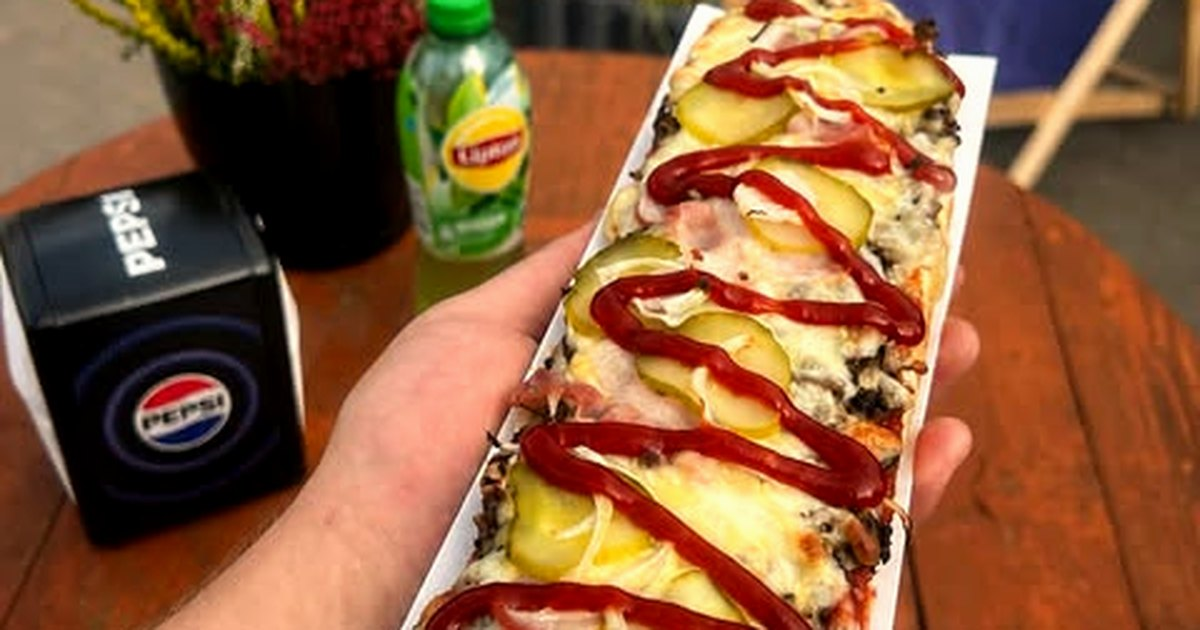
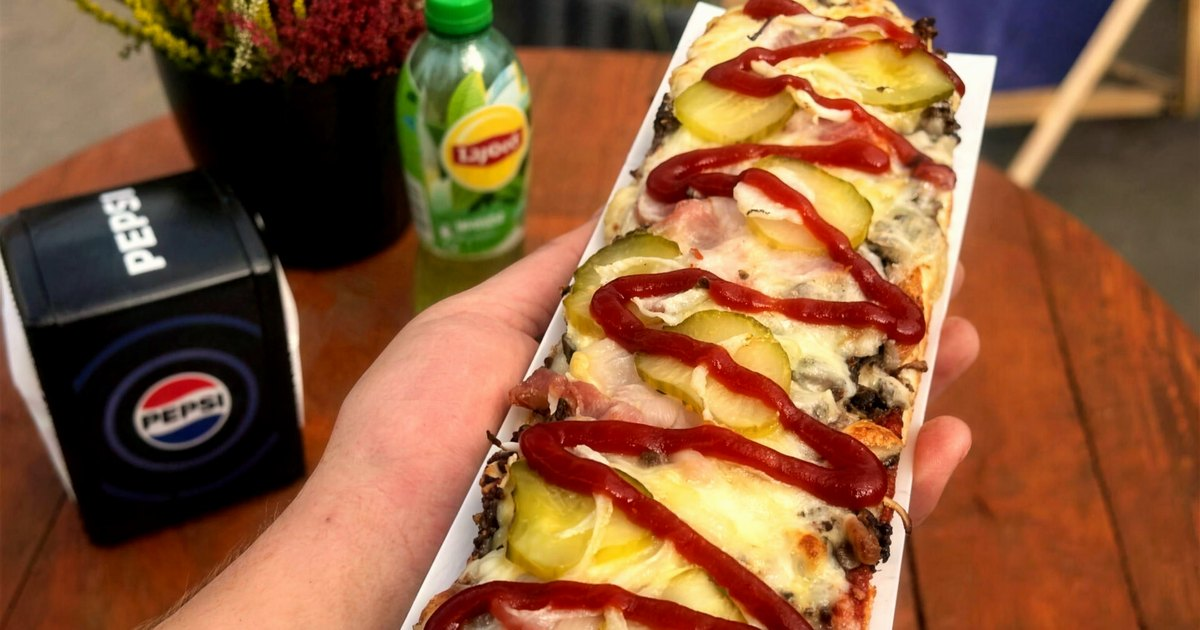
fix: rebuild footer, embed a real google map, upscale the two lead photos
Kontakt: mapa z h-full rozpychała wiersz, przez co lewa kolumna miała 325 px
treści w 789 px wysokości. Zdjęcie i mapa siedzą teraz we własnym wierszu o
stałej wysokości, pustka zniknęła. Zamiast klikalnej zaślepki jest normalny
embed Google Maps.

Stopka: wordmark, adres, telefon, linki do sekcji, social i pasek dolny z
'projekt i realizacja: Kontaktio'. Na mobile dolny odstęp na przyklejony pasek
z telefonem.

Zdjęcia hero i lokalu podbite do 4K (Higgsfield, upscale bez promptu), bo 640 px
z Instagrama było widocznie miękkie na dużym ekranie. Kadr i kompozycja bez
zmian, to te same zdjęcia lokalu.

diff --git a/src/components/sections/Contact.tsx b/src/components/sections/Contact.tsx
@@ -1,7 +1,7 @@
 import Image from 'next/image';
 import { BUSINESS, AMENITIES } from '@/lib/business';
 import { OpeningHours } from '@/components/OpeningHours';
-import { MapPanel } from '@/components/MapPanel';
+import { GoogleMap } from '@/components/GoogleMap';
 import { pl, phoneDisplay } from '@/lib/typo';
 
 function Facebook() {
@@ -31,82 +31,82 @@ function Instagram() {
 
 export function Contact() {
   return (
-    <section id="kontakt" className="border-t border-char bg-ink-2">
-      <div className="grid md:grid-cols-12">
-        <div className="px-5 py-16 sm:px-8 md:col-span-7 md:py-20 md:pl-[max(2rem,calc((100vw-86rem)/2+2rem))]">
-          <div className="grid gap-10 sm:grid-cols-2">
-            <div>
-              <p className="mb-3 text-[0.7rem] caps text-ember">Adres</p>
-              <p className="font-display text-[1.35rem] leading-snug text-cream">
-                {BUSINESS.street}
-              </p>
-              <p className="nums text-[0.95rem] text-cream-dim">
-                {pl(`${BUSINESS.postalCode} ${BUSINESS.city}`)}
-              </p>
+    <section id="kontakt" className="scroll-mt-20 border-t border-char bg-ink-2">
+      <div className="mx-auto max-w-[86rem] px-5 py-16 sm:px-8">
+        <div className="grid gap-10 md:grid-cols-12 md:gap-8">
+          <div className="md:col-span-5">
+            <p className="mb-3 text-[0.7rem] caps text-ember">Adres</p>
+            <p className="text-[1.35rem] font-medium leading-snug text-cream">{BUSINESS.street}</p>
+            <p className="nums text-[0.95rem] text-cream-dim">
+              {pl(`${BUSINESS.postalCode} ${BUSINESS.city}`)}
+            </p>
+            <p className="mt-2 text-[0.85rem] text-cream-dim">
+              {pl('Obok Żabki. Nie dowozimy, odbiór na miejscu albo na wynos.')}
+            </p>
 
-              <p className="mb-3 mt-9 text-[0.7rem] caps text-ember">Telefon</p>
+            <p className="mb-3 mt-9 text-[0.7rem] caps text-ember">Telefon</p>
+            <a
+              href={`tel:${BUSINESS.phone}`}
+              aria-label={`Zadzwoń pod numer ${phoneDisplay(BUSINESS.phoneDisplay)}`}
+              className="nums text-[clamp(1.7rem,4.6vw,2.4rem)] font-semibold leading-none text-cream transition-colors hover:text-ember-lite"
+            >
+              {phoneDisplay(BUSINESS.phoneDisplay)}
+            </a>
+
+            <div className="mt-8 flex gap-3">
               <a
-                href={`tel:${BUSINESS.phone}`}
-                aria-label={`Zadzwoń pod numer ${phoneDisplay(BUSINESS.phoneDisplay)}`}
-                className="nums font-display text-[clamp(1.7rem,4.6vw,2.4rem)] leading-none text-cream transition-colors hover:text-ember-lite"
+                href={BUSINESS.facebook}
+                target="_blank"
+                rel="noopener noreferrer"
+                aria-label="Zapieczeni na Facebooku"
+                className="border border-char p-[0.6rem] text-cream-dim transition-colors hover:border-ember hover:text-ember-lite"
               >
-                {phoneDisplay(BUSINESS.phoneDisplay)}
+                <Facebook />
               </a>
-
-              <div className="mt-9 flex gap-3">
-                <a
-                  href={BUSINESS.facebook}
-                  target="_blank"
-                  rel="noopener noreferrer"
-                  aria-label="Zapieczeni na Facebooku"
-                  className="border border-char p-[0.6rem] text-cream-dim transition-colors hover:border-ember hover:text-ember-lite"
-                >
-                  <Facebook />
-                </a>
-                <a
-                  href={BUSINESS.instagram}
-                  target="_blank"
-                  rel="noopener noreferrer"
-                  aria-label="Zapieczeni na Instagramie"
-                  className="border border-char p-[0.6rem] text-cream-dim transition-colors hover:border-ember hover:text-ember-lite"
-                >
-                  <Instagram />
-                </a>
-              </div>
-            </div>
-
-            <div>
-              <p className="mb-3 text-[0.7rem] caps text-ember">Godziny</p>
-              <OpeningHours />
+              <a
+                href={BUSINESS.instagram}
+                target="_blank"
+                rel="noopener noreferrer"
+                aria-label="Zapieczeni na Instagramie"
+                className="border border-char p-[0.6rem] text-cream-dim transition-colors hover:border-ember hover:text-ember-lite"
+              >
+                <Instagram />
+              </a>
             </div>
           </div>
 
-          <ul className="mt-12 flex flex-wrap gap-x-5 gap-y-2 border-t border-char pt-6">
-            {AMENITIES.map((item) => (
-              <li key={item} className="text-[0.78rem] text-cream-dim">
-                {pl(item)}
-              </li>
-            ))}
-          </ul>
+          <div className="md:col-span-6 md:col-start-7">
+            <p className="mb-3 text-[0.7rem] caps text-ember">Godziny</p>
+            <OpeningHours />
+          </div>
         </div>
 
-        <div className="border-t border-char md:col-span-5 md:border-l md:border-t-0">
-          <figure className="m-0">
-            <div className="relative aspect-[3/2] w-full">
-              <Image
-                src="/foto/lokal-zewnatrz.webp"
-                alt="Lokal Zapieczeni od ulicy: kontener z szyldem i tablicą menu"
-                fill
-                loading="lazy"
-                sizes="(max-width: 768px) 100vw, 42vw"
-                className="object-cover"
-              />
-            </div>
-            <figcaption className="border-t border-char px-6 py-3 text-[0.78rem] text-cream-dim">
-              {pl('Rokicińska 120, obok Żabki. Parking przy ulicy, za darmo.')}
-            </figcaption>
-          </figure>
-          <MapPanel />
+        <ul className="mt-12 flex flex-wrap gap-x-5 gap-y-2 border-t border-char pt-6">
+          {AMENITIES.map((item) => (
+            <li key={item} className="text-[0.78rem] text-cream-dim">
+              {pl(item)}
+            </li>
+          ))}
+        </ul>
+      </div>
+
+      <div className="grid border-t border-char md:grid-cols-2">
+        <figure className="relative m-0 h-[16rem] md:h-[24rem]">
+          <Image
+            src="/foto/lokal-zewnatrz.webp"
+            alt="Lokal Zapieczeni od ulicy: kontener z szyldem i tablicą menu"
+            fill
+            loading="lazy"
+            sizes="(max-width: 768px) 100vw, 50vw"
+            className="object-cover"
+          />
+          <figcaption className="absolute inset-x-0 bottom-0 bg-gradient-to-t from-ink to-transparent px-6 pb-4 pt-10 text-[0.8rem] text-cream">
+            {pl('Rokicińska 120, obok Żabki. Parking przy ulicy, za darmo.')}
+          </figcaption>
+        </figure>
+
+        <div className="h-[16rem] border-t border-char md:h-[24rem] md:border-l md:border-t-0">
+          <GoogleMap />
         </div>
       </div>
     </section>

diff --git a/src/components/sections/SiteFooter.tsx b/src/components/sections/SiteFooter.tsx
@@ -2,59 +2,88 @@ import { BUSINESS } from '@/lib/business';
 import { pl, phoneDisplay } from '@/lib/typo';
 import { Wordmark } from '@/components/ui/Wordmark';
 
+const LINKS = [
+  { href: '#menu', label: 'Menu' },
+  { href: '#opinie', label: 'Opinie' },
+  { href: '#kontakt', label: 'Kontakt' },
+];
+
 export function SiteFooter() {
   return (
-    <footer className="border-t border-char pt-14">
-      <div className="mx-auto max-w-[86rem] px-5 sm:px-8">
-        <div className="flex flex-wrap items-baseline justify-between gap-x-8 gap-y-3 pb-10 text-[0.8rem] text-cream-dim">
-          <p className="nums">
-            {pl(`${BUSINESS.street}, ${BUSINESS.postalCode} ${BUSINESS.city}`)}
-          </p>
-          <a
-            href={`tel:${BUSINESS.phone}`}
-            aria-label={`Zadzwoń pod numer ${phoneDisplay(BUSINESS.phoneDisplay)}`}
-            className="nums transition-colors hover:text-cream"
-          >
-            {phoneDisplay(BUSINESS.phoneDisplay)}
-          </a>
-          <div className="flex gap-6">
+    <footer className="border-t border-char">
+      <div className="mx-auto max-w-[86rem] px-5 pb-28 pt-14 sm:px-8 md:pb-14">
+        <div className="grid gap-10 md:grid-cols-12">
+          <div className="md:col-span-5">
+            <Wordmark width={200} className="h-auto w-[11.5rem]" />
+            <p className="nums mt-5 text-[0.85rem] leading-relaxed text-cream-dim">
+              {pl(`${BUSINESS.street}, ${BUSINESS.postalCode} ${BUSINESS.city}`)}
+            </p>
             <a
-              href={BUSINESS.facebook}
-              target="_blank"
-              rel="noopener noreferrer"
-              className="transition-colors hover:text-cream"
+              href={`tel:${BUSINESS.phone}`}
+              aria-label={`Zadzwoń pod numer ${phoneDisplay(BUSINESS.phoneDisplay)}`}
+              className="nums mt-1 inline-block text-[1.05rem] font-medium text-cream transition-colors hover:text-ember-lite"
             >
-              Facebook
+              {phoneDisplay(BUSINESS.phoneDisplay)}
             </a>
-            <a
-              href={BUSINESS.instagram}
-              target="_blank"
-              rel="noopener noreferrer"
-              className="transition-colors hover:text-cream"
-            >
-              Instagram
-            </a>
+          </div>
+
+          <nav className="md:col-span-3" aria-label="Stopka">
+            <p className="mb-3 text-[0.7rem] caps text-ember">Strona</p>
+            <ul className="flex flex-col gap-2">
+              {LINKS.map((link) => (
+                <li key={link.href}>
+                  <a
+                    href={link.href}
+                    className="text-[0.85rem] text-cream-dim transition-colors hover:text-cream"
+                  >
+                    {link.label}
+                  </a>
+                </li>
+              ))}
+            </ul>
+          </nav>
+
+          <div className="md:col-span-3">
+            <p className="mb-3 text-[0.7rem] caps text-ember">Social</p>
+            <ul className="flex flex-col gap-2">
+              <li>
+                <a
+                  href={BUSINESS.facebook}
+                  target="_blank"
+                  rel="noopener noreferrer"
+                  className="text-[0.85rem] text-cream-dim transition-colors hover:text-cream"
+                >
+                  Facebook
+                </a>
+              </li>
+              <li>
+                <a
+                  href={BUSINESS.instagram}
+                  target="_blank"
+                  rel="noopener noreferrer"
+                  className="text-[0.85rem] text-cream-dim transition-colors hover:text-cream"
+                >
+                  Instagram
+                </a>
+              </li>
+            </ul>
           </div>
         </div>
 
-        <div className="flex flex-wrap items-baseline justify-between gap-4 border-t border-char py-5 text-[0.72rem] text-cream-dim/70">
+        <div className="mt-12 flex flex-wrap items-baseline justify-between gap-x-8 gap-y-2 border-t border-char pt-6 text-[0.75rem] text-cream-dim">
           <p className="nums">© 2026 Zapieczeni</p>
           <p>
-            realizacja:{' '}
+            projekt i realizacja:{' '}
             <a
               href="https://kontaktio.pl"
               target="_blank"
               rel="noopener"
-              className="underline decoration-char underline-offset-4 transition-colors hover:text-cream"
+              className="text-cream underline decoration-char underline-offset-4 transition-colors hover:decoration-ember"
             >
               Kontaktio
             </a>
           </p>
         </div>
-      </div>
-
-      <div className="mx-auto max-w-[86rem] px-5 pb-12 sm:px-8">
-        <Wordmark width={220} className="h-auto w-[11rem] opacity-40" />
       </div>
     </footer>
   );

diff --git a/src/components/GoogleMap.tsx b/src/components/GoogleMap.tsx
@@ -1,0 +1,16 @@
+import { BUSINESS } from '@/lib/business';
+
+const EMBED = `https://www.google.com/maps?q=${BUSINESS.lat},${BUSINESS.lng}&z=17&hl=pl&output=embed`;
+
+export function GoogleMap({ className = '' }: { className?: string }) {
+  return (
+    <iframe
+      src={EMBED}
+      title="Mapa dojazdu do lokalu Zapieczeni, Rokicińska 120 w Andrespolu"
+      loading="lazy"
+      allowFullScreen
+      referrerPolicy="no-referrer-when-downgrade"
+      className={`block h-full w-full border-0 ${className}`}
+    />
+  );
+}

diff --git a/scripts/prepare-photos.py b/scripts/prepare-photos.py
@@ -19,17 +19,18 @@ OUT = ROOT / "public" / "foto"
 
 RATIOS = {"hero": 4 / 5, "menu": 4 / 5, "lokal": 3 / 2}
 # jeden master na zdjęcie; warianty responsywne generuje next/image
-MASTER_WIDTH = 960
+# pliki up-*.png to zdjęcia lokalu podbite do 4K (Higgsfield), reszta prosto z IG
+MASTER_WIDTH = 1280
 
 # nazwa wyjściowa, plik źródłowy, kadr, kotwica pionowa (0 = góra, 1 = dół)
 MANIFEST = [
-    ("hero-zapiekanka", "src-778586979.jpg", "hero", 0.50),
+    ("hero-zapiekanka", "up-778586979.png", "hero", 0.50),
     ("zapiekanka-w-dloni", "src-766008182.jpg", "menu", 0.50),
     ("zapiekanki-z-gory", "src-729260042.jpg", "menu", 0.50),
     ("hot-dog", "src-753381870.jpg", "menu", 0.50),
     ("bowl-z-kukurydza", "src-773995718.jpg", "menu", 0.50),
     ("bowle-na-lezakach", "src-730515828.jpg", "menu", 0.50),
-    ("lokal-zewnatrz", "src-758328784.jpg", "lokal", 0.06),
+    ("lokal-zewnatrz", "up-758328784.png", "lokal", 0.06),
 ]
 
 
@@ -93,7 +94,7 @@ def main() -> None:
         print(f"{name:22} {image.size[0]}x{image.size[1]} -> {width}x{height}")
 
     # tło karty Open Graph, 1200x630, czytane przy buildzie przez opengraph-image
-    og_src = SRC / "src-778586979.jpg"
+    og_src = SRC / "up-778586979.png"
     if og_src.exists():
         og = grade(crop_to(Image.open(og_src).convert("RGB"), 1200 / 630, 0.45))
         og = og.resize((1200, 630), Image.LANCZOS)
